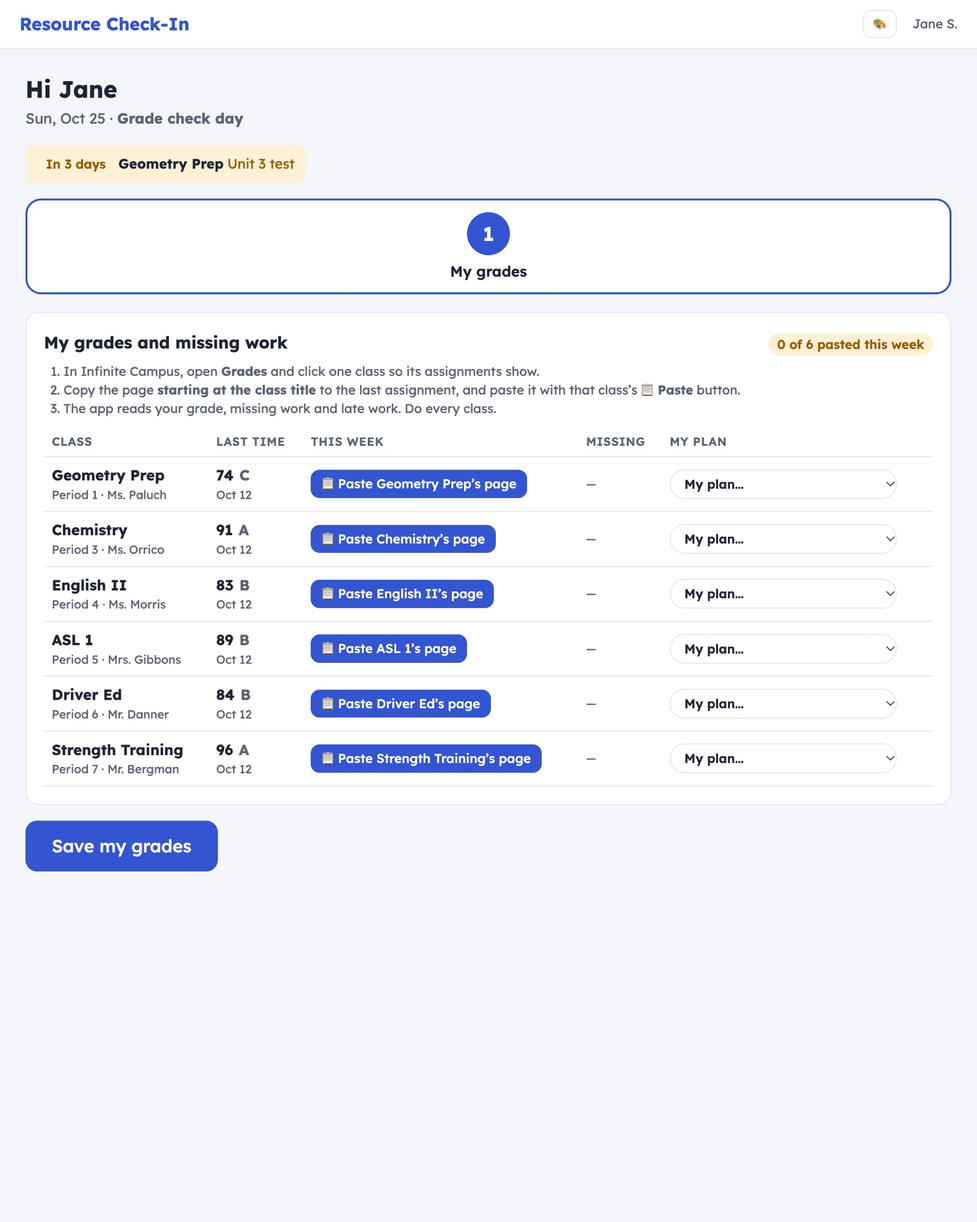
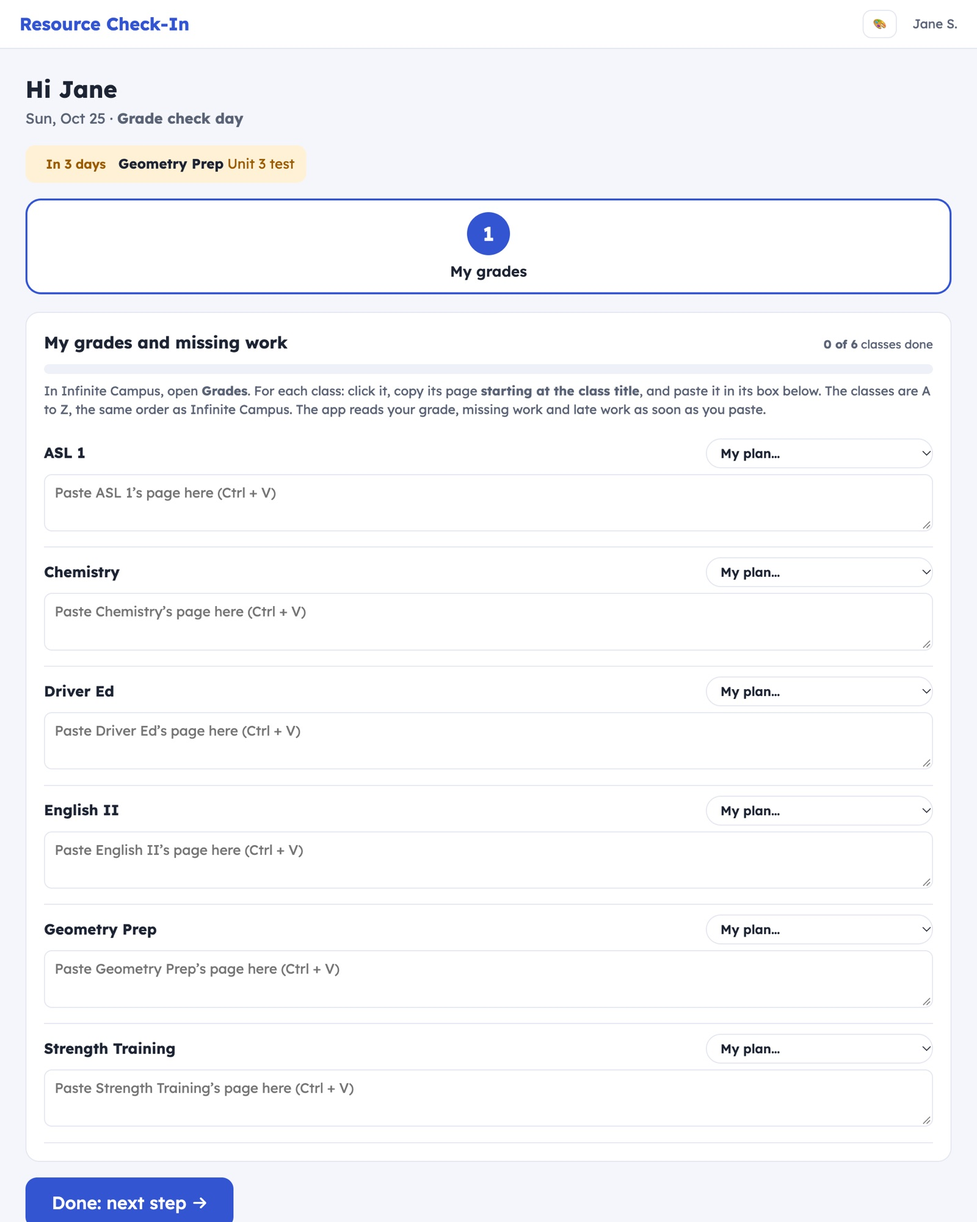
Resource Check-In 2.02: a paste box per class, read on paste (demo, practice page, showcase)

diff --git a/resource/demo.html b/resource/demo.html
@@ -129,6 +129,9 @@ td small, .small { display: block; color: var(--soft); font-size: 12px; }
 .ck.num { background: var(--card); font-size: 18px; } .ck.fn2 { color: var(--brand); } .ck.eq { background: var(--brand); color: var(--onbrand, #fff); border-color: var(--brand); font-size: 20px; }
 .ck:active { transform: scale(.96); } .calch { display: block; text-align: left; padding: 2px 0; }
 .pqrow { display: flex; gap: 12px; align-items: flex-start; padding: 10px 4px; border-bottom: 1px solid var(--line); } .pqrow.off { opacity: .5; }
+.gpbar { height: 10px; background: var(--chip); border-radius: 6px; overflow: hidden; margin: 6px 0 2px; } .gpbar span { display: block; height: 100%; background: var(--up); border-radius: 6px; transition: width .3s; }
+.gprow { padding: 10px 0; border-bottom: 1px solid var(--line); } .gprow.done b.grow { color: var(--up); }
+.gpbox { margin-top: 6px; min-height: 44px; font-size: 14px; } .gpres { font-size: 14px; }
 .pollnames { display: grid; grid-template-columns: repeat(auto-fill, minmax(160px, 1fr)); gap: 14px; margin-top: 12px; }
 .pollcard { border: 2px solid var(--brand); text-align: center; padding: 26px 20px; }
 .pollq { font-size: 26px; font-weight: 700; margin: 10px 0 18px; line-height: 1.25; }
@@ -432,7 +435,7 @@ tr.lowrow td { background: var(--chip); border-bottom: 1px solid var(--line); }
    plan how they'll use resource time, and list upcoming tests. The teacher sees everyone.
    A Google Sheet + Apps Script web app. How to set it up: SETUP.md. */
 
-var VERSION = '2.01';
+var VERSION = '2.02';
 
 // Data tabs and their columns. Dates are stored as text (yyyy-mm-dd).
 var TABS = {
@@ -5405,7 +5408,7 @@ function drawCheckin() {
   if (cur === 'grades') {
     if (GSUB === 1) { h += weeklyCards() + ckSaveBtn('Save my plan for the week', function () { GSUB = 0; STEP = null; }); after = 'week'; }
     else {
-      h += gradesCard(function () { return ''; }) + ckSaveBtn(gradesDone() ? 'Save my grades' : 'Save my grades', weeklyOn() ? function () { GSUB = 1; STEP = { k: 'grades', wasDone: true }; } : null) + (gradesDone() ? nx() : '');
+      h += gradesCard(function () { return ''; }) + ckSaveBtn(pasteOnly() ? 'Done: next step →' : 'Save my grades', weeklyOn() ? function () { GSUB = 1; STEP = { k: 'grades', wasDone: true }; } : null) + (gradesDone() ? nx() : '');
       after = 'grades';
     }
   } else if (cur === 'plan') h += dayPlanCard() + nx();
@@ -5479,24 +5482,67 @@ function weeklyCards() {
 // 2.00: students enter grades only by pasting each class's detailed page (grade, missing and late work come from it)
 function pasteOnly() { return MODE === 'student' && F('pasteOnly'); }
 function pastedWeek(c) { var a = (D.analyses || {})[c.name]; return a && a.date >= B.week ? a.date : ''; }
+// 2.02: one open paste box per class, A to Z like Infinite Campus's Grades page. Each page is read the moment it's pasted, saved in the
+// background, and the cursor jumps to the next empty box; a progress bar fills as they go.
+var GP_AGAIN = {}, GP_LAST = {}, GP_NOTE = {};
+function gpOrder() { return graded().slice().sort(function (a, b) { return a.name.localeCompare(b.name); }); }
+function gpDone(c) { return !!pastedWeek(c) && !GP_AGAIN[c.name]; }
 function gradesCardPaste(sec) {
-  var CP = F('cplan'), COLS = 4 + (CP ? 1 : 0), all = graded(), done = all.filter(pastedWeek).length;
-  var h = '<div class="card"><div class="row"><h2 class="grow">' + sec() + 'My grades and missing work</h2><span class="badge ' + (done === all.length && all.length ? 'up' : 'warn') + '">' + done + ' of ' + all.length + ' pasted this week</span></div>' +
-    '<ol class="hint" style="margin:4px 0 10px;padding-left:20px"><li>In Infinite Campus, open <b>Grades</b> and click one class so its assignments show.</li><li>Copy the page <b>starting at the class title</b> to the last assignment, and paste it with that class’s <b>📋 Paste</b> button.</li><li>The app reads your grade, missing work and late work. Do every class.</li></ol>';
+  var CP = F('cplan'), all = gpOrder(), done = all.filter(gpDone).length, pct = all.length ? Math.round(100 * done / all.length) : 0;
+  var h = '<div class="card" id="gcard"><div class="row"><h2 class="grow">' + sec() + 'My grades and missing work</h2><span class="small"><b>' + done + ' of ' + all.length + '</b> classes done</span></div>' +
+    '<div class="gpbar"><span style="width:' + pct + '%"></span></div>' +
+    '<p class="hint" style="margin:8px 0 10px">In Infinite Campus, open <b>Grades</b>. For each class: click it, copy its page <b>starting at the class title</b>, and paste it in its box below. The classes are A to Z, the same order as Infinite Campus. The app reads your grade, missing work and late work as soon as you paste.</p>';
   if (!all.length) return h + '<div class="empty">No classes yet. Add them under <a href="#" onclick="go(\'schedule\');return false">My schedule</a>.</div></div>';
-  h += '<table><thead><tr><th>Class</th><th>Last time</th><th>This week</th><th>Missing</th>' + (CP ? '<th>My plan</th>' : '') + '</tr></thead><tbody>' + all.map(function (c, i) {
-    var prev = before(D.grades[c.name], B.week), v = CK.grades[c.name], pd = pastedWeek(c), m = CK.missing[c.name] || { n: '', list: '' }, by = ((D.gradeBy || {})[c.name] || {})[B.week];
-    var cell = pd && v !== '' ? '<b>' + esc(v) + '</b><span class="letter">' + letter(Number(v)) + '</span>' + changeBadge(Number(v), prev) + '<small>✓ pasted ' + shortDay(pd) + ' · <a href="#" onclick="anOpen(' + i + ');return false">Paste again</a></small>'
-      : (by && v !== '' ? '<b>' + esc(v) + '</b><span class="letter">' + letter(Number(v)) + '</span><small>✏ Entered by your teacher · <a href="#" onclick="anOpen(' + i + ');return false">Paste to update</a></small>'
-      : '<button class="btn primary small" onclick="anOpen(' + i + ')">📋 Paste ' + esc(c.name) + '’s page</button>');
-    return '<tr><td><b>' + esc(c.name) + '</b><small>' + esc([c.period ? 'Period ' + c.period : '', c.level].filter(String).join(' · ')) + (c.teacher ? (c.period || c.level ? ' · ' : '') + teacherLinks(c) : '') + '</small>' +
-      '<div id="gw' + i + '"' + (gradRisk(c.name, v) ? '' : ' hidden') + '><span class="gradpill">🎓 Needed to graduate</span></div></td>' +
-      '<td>' + (prev ? '<b>' + prev.grade + '</b><span class="letter">' + letter(prev.grade) + '</span><small>' + shortDay(gDay(D, c.name, prev.week)) + '</small>' : '<span class="small">First week</span>') + '</td>' +
-      '<td>' + cell + '</td><td>' + (pd ? (Number(m.n) ? '<b style="color:var(--down)">' + esc(m.n) + '</b>' + (m.list ? '<small>' + esc(m.list) + '</small>' : '') : '0') : '<span class="small">—</span>') + '</td>' +
-      (CP ? '<td>' + cpSelect(i, CK.cplan[c.name]) + '</td>' : '') + '</tr>' +
-      (F('lowWhy') ? '<tr class="lowrow" id="lr' + i + '"' + (isLow(v) ? '' : ' hidden') + '><td colspan="' + COLS + '">' + lowBox(i) + '</td></tr>' : '');
-  }).join('') + '</tbody></table>';
+  h += all.map(function (c) {
+    var i = graded().indexOf(c), ok = gpDone(c), v = CK.grades[c.name], m = CK.missing[c.name] || { n: '', list: '' }, prev = before(D.grades[c.name], B.week);
+    var by = !ok && v !== '' && ((D.gradeBy || {})[c.name] || {})[B.week];
+    var res = ok ? '<span class="gpres">✓ <b>' + esc(v) + '%</b> ' + letter(Number(v)) + ' ' + changeBadge(Number(v), prev) + ' · ' + (Number(m.n) ? '<b style="color:var(--down)">' + esc(m.n) + ' missing</b>' : 'nothing missing') +
+      ' · <a href="#" onclick="gpAgain(' + i + ');return false">Paste again</a>' + (GP_LAST[c.name] ? ' · <a href="#" onclick="anShow(' + i + ');return false">Details</a>' : '') + '</span>' : '';
+    return '<div class="gprow' + (ok ? ' done' : '') + '" id="gp' + i + '"><div class="row" style="align-items:center;gap:8px"><b class="grow">' + esc(c.name) + (gradRisk(c.name, v) ? ' <span class="gradpill">🎓</span>' : '') + '</b>' + res + (CP ? cpSelect(i, CK.cplan[c.name]) : '') + '</div>' +
+      (ok && Number(m.n) && m.list ? '<div class="small" style="margin-top:2px">Missing: ' + esc(m.list) + '</div>' : '') +
+      (!ok ? (GP_NOTE[c.name] ? '<div class="small" style="color:var(--brand);margin-top:4px">' + GP_NOTE[c.name] + '</div>' : '') + (by ? '<div class="small" style="margin-top:4px">✏ Your teacher entered ' + esc(v) + '% this week. Paste the page to update it.</div>' : '') +
+        '<textarea class="gpbox" id="gpt' + i + '" rows="2" placeholder="Paste ' + esc(c.name) + '’s page here (Ctrl + V)" onpaste="gpPaste(' + i + ',this)" oninput="gpType(' + i + ',this)"></textarea><div class="small" id="gpm' + i + '" style="color:var(--down)"></div>' : '') +
+      (ok && F('lowWhy') && isLow(v) ? '<div class="lowrow" id="lr' + i + '">' + lowBox(i) + '<div class="small" id="lsv' + i + '" style="margin-top:4px"></div></div>' : '') + '</div>';
+  }).join('');
   return h + '</div>';
+}
+function gpPaste(i, el) { setTimeout(function () { gpRead(i, el); }, 30); }
+function gpType(i, el) { clearTimeout(window.GPT); window.GPT = setTimeout(function () { if (el.value.length > 200) gpRead(i, el); }, 600); }          // pasted with the right-click menu
+function gpAgain(i) { GP_AGAIN[graded()[i].name] = true; gpRedraw(i); }
+function gpRedraw(focusI) {
+  var card = $('gcard'); if (!card) return drawCheckin();
+  card.outerHTML = gradesCardPaste(function () { return ''; });
+  var t = focusI !== undefined && $('gpt' + focusI) ? $('gpt' + focusI) : document.querySelector('#gcard textarea.gpbox');
+  if (t) { t.focus(); t.scrollIntoView({ behavior: 'smooth', block: 'center' }); }
+}
+function gpRead(i, el) {
+  var text = el.value, c = graded()[i], msg = function (t) { var m = $('gpm' + i); if (m) m.textContent = t; el.value = ''; };
+  if (!text.trim() || el.dataset.busy) return;
+  var p = parseClassGrades(text);
+  if (!p.items.length) return msg('That looks like the summary page (one grade for each class). Click ' + c.name + ' in Infinite Campus so its assignments show, and copy that page starting at the class title.');
+  if (p.grade === null || p.grade === undefined) return msg('We couldn’t find the class grade on that page. Start your copy at the very top, at the class title.');
+  var to = anRoute(p, c), moved = '';
+  if (to && to !== c) { moved = c.name; c = to; }
+  else if (!to || !AN_SURE) { var why = anOdd(p, c); if (why && !confirm('Double-check: is this your ' + c.name + ' page? ' + why + '\n\nOK = yes, it’s ' + c.name + '. Cancel = I’ll paste the right page.')) return msg(''); }
+  el.dataset.busy = '1';
+  var res = analyzeClass(p, { today: B.today, onTime: B.retakeOnTime, below: B.retakeBelow, target: 85 }), cn = c.name, g = Math.round(Number(res.grade) * 100) / 100, ms = res.missing.map(function (x) { return x.name; });
+  GP_LAST[cn] = { res: res, p: p }; delete GP_AGAIN[cn]; delete GP_NOTE[cn];
+  if (moved) GP_NOTE[moved] = 'That was your ' + esc(cn) + ' page, so it’s saved there. Paste ' + esc(moved) + '’s page here.';
+  CK.grades[cn] = String(g); CK.missing[cn] = { n: String(ms.length), list: ms.join(', ') }; CK.an[cn] = res;
+  D.grades[cn] = D.grades[cn] || {}; D.grades[cn][B.week] = g; D.dates = D.dates || {}; D.dates[cn] = D.dates[cn] || {}; D.dates[cn][B.week] = B.today;
+  D.analyses = D.analyses || {}; D.analyses[cn] = { date: B.today, grade: g, missing: [], onTime: res.next.onTime, total: res.next.total, lastTest: res.nextFrom || '' };
+  D.anames = D.anames || {}; D.anames[cn] = p.items.map(function (x) { return x.name; }).slice(0, 80);
+  call('api_saveRetakes', cn, retakeList(res), anSummary(res)).then(function (r) { D.retakes = r; }).catch(oops);          // saves in the background
+  var next = gpOrder().filter(function (x) { return !gpDone(x); })[0];
+  gpRedraw(moved ? i : next ? graded().indexOf(next) : undefined);
+  if (!next && !moved) toast('All classes done ✓');
+}
+// the full analysis of a class pasted this visit (retakes, missing work, late work)
+function anShow(i) {
+  var c = graded()[i], L = GP_LAST[c.name]; if (!L) return;
+  var el = document.createElement('div'); el.className = 'modal'; el.id = 'anModal'; el.onclick = function (e) { if (e.target === el) el.remove(); };
+  el.innerHTML = '<div class="card"><div class="row"><h2 class="grow">🔍 ' + esc(c.name) + '</h2><button class="btn link" onclick="$(\'anModal\').remove()">✕ Close</button></div><div id="anOut">' + anHtml(L.res, L.p) + '</div></div>';
+  document.body.appendChild(el);
 }
 function gradesCard(sec) {
   if (pasteOnly()) return gradesCardPaste(sec);
@@ -5816,11 +5862,22 @@ function lowHelp(cls) {
   dropFor(cls || '').forEach(function (d) { bits.push('📍 Drop-In Center' + (d.campus ? ' (' + esc(d.campus) + (d.subject ? ', ' + esc(d.subject) : '') + ')' : '') + ': ' + esc(d.where)); });
   return bits.length ? '<p class="small" style="margin:2px 0 8px">' + bits.join(' &nbsp;·&nbsp; ') + '</p>' : '';
 }
-function lowSet(i, k, v) { CK.lows[graded()[i].name][k] = v; setDirty(true); }
+function lowSet(i, k, v) { CK.lows[graded()[i].name][k] = v; setDirty(true); lowAuto(i); }
 function lowAct(i, k, el) {
   var c = graded()[i], list = CK.lows[c.name].actions, a = lowActions(c)[k], at = list.indexOf(a);
   if (el.checked && at < 0) list.push(a); if (!el.checked && at >= 0) list.splice(at, 1);
-  el.parentNode.className = el.checked ? 'on' : ''; setDirty(true);
+  el.parentNode.className = el.checked ? 'on' : ''; setDirty(true); lowAuto(i);
+}
+// 2.02: in pasting mode a low grade's reason and plan save by themselves once both are filled in
+var LOW_T = {};
+function lowAuto(i) {
+  if (!pasteOnly()) return;
+  var c = graded()[i]; clearTimeout(LOW_T[c.name]);
+  LOW_T[c.name] = setTimeout(function () {
+    var x = CK.lows[c.name], sv = $('lsv' + i); if (!x.why.trim() || (!x.actions.length && !x.details.trim())) { if (sv) sv.textContent = 'Write why, and pick a plan: it saves by itself.'; return; }
+    var gr = {}, lw = {}; gr[c.name] = CK.grades[c.name]; lw[c.name] = x; if (sv) sv.textContent = 'Saving…';
+    call('api_saveCheckin', { grades: gr, lows: lw }).then(function (d) { D.lows = d.lows; D.grades = d.grades; D.missing = d.missing; setDirty(false); var s2 = $('lsv' + i); if (s2) s2.textContent = '✓ Saved'; }).catch(oops);
+  }, 1200);
 }
 function mIn(i, v) {
   var c = graded()[i]; CK.missing[c.name].n = v; setDirty(true);

diff --git a/resource/practice.html b/resource/practice.html
@@ -129,6 +129,9 @@ td small, .small { display: block; color: var(--soft); font-size: 12px; }
 .ck.num { background: var(--card); font-size: 18px; } .ck.fn2 { color: var(--brand); } .ck.eq { background: var(--brand); color: var(--onbrand, #fff); border-color: var(--brand); font-size: 20px; }
 .ck:active { transform: scale(.96); } .calch { display: block; text-align: left; padding: 2px 0; }
 .pqrow { display: flex; gap: 12px; align-items: flex-start; padding: 10px 4px; border-bottom: 1px solid var(--line); } .pqrow.off { opacity: .5; }
+.gpbar { height: 10px; background: var(--chip); border-radius: 6px; overflow: hidden; margin: 6px 0 2px; } .gpbar span { display: block; height: 100%; background: var(--up); border-radius: 6px; transition: width .3s; }
+.gprow { padding: 10px 0; border-bottom: 1px solid var(--line); } .gprow.done b.grow { color: var(--up); }
+.gpbox { margin-top: 6px; min-height: 44px; font-size: 14px; } .gpres { font-size: 14px; }
 .pollnames { display: grid; grid-template-columns: repeat(auto-fill, minmax(160px, 1fr)); gap: 14px; margin-top: 12px; }
 .pollcard { border: 2px solid var(--brand); text-align: center; padding: 26px 20px; }
 .pollq { font-size: 26px; font-weight: 700; margin: 10px 0 18px; line-height: 1.25; }
@@ -432,7 +435,7 @@ tr.lowrow td { background: var(--chip); border-bottom: 1px solid var(--line); }
    plan how they'll use resource time, and list upcoming tests. The teacher sees everyone.
    A Google Sheet + Apps Script web app. How to set it up: SETUP.md. */
 
-var VERSION = '2.01';
+var VERSION = '2.02';
 
 // Data tabs and their columns. Dates are stored as text (yyyy-mm-dd).
 var TABS = {
@@ -5405,7 +5408,7 @@ function drawCheckin() {
   if (cur === 'grades') {
     if (GSUB === 1) { h += weeklyCards() + ckSaveBtn('Save my plan for the week', function () { GSUB = 0; STEP = null; }); after = 'week'; }
     else {
-      h += gradesCard(function () { return ''; }) + ckSaveBtn(gradesDone() ? 'Save my grades' : 'Save my grades', weeklyOn() ? function () { GSUB = 1; STEP = { k: 'grades', wasDone: true }; } : null) + (gradesDone() ? nx() : '');
+      h += gradesCard(function () { return ''; }) + ckSaveBtn(pasteOnly() ? 'Done: next step →' : 'Save my grades', weeklyOn() ? function () { GSUB = 1; STEP = { k: 'grades', wasDone: true }; } : null) + (gradesDone() ? nx() : '');
       after = 'grades';
     }
   } else if (cur === 'plan') h += dayPlanCard() + nx();
@@ -5479,24 +5482,67 @@ function weeklyCards() {
 // 2.00: students enter grades only by pasting each class's detailed page (grade, missing and late work come from it)
 function pasteOnly() { return MODE === 'student' && F('pasteOnly'); }
 function pastedWeek(c) { var a = (D.analyses || {})[c.name]; return a && a.date >= B.week ? a.date : ''; }
+// 2.02: one open paste box per class, A to Z like Infinite Campus's Grades page. Each page is read the moment it's pasted, saved in the
+// background, and the cursor jumps to the next empty box; a progress bar fills as they go.
+var GP_AGAIN = {}, GP_LAST = {}, GP_NOTE = {};
+function gpOrder() { return graded().slice().sort(function (a, b) { return a.name.localeCompare(b.name); }); }
+function gpDone(c) { return !!pastedWeek(c) && !GP_AGAIN[c.name]; }
 function gradesCardPaste(sec) {
-  var CP = F('cplan'), COLS = 4 + (CP ? 1 : 0), all = graded(), done = all.filter(pastedWeek).length;
-  var h = '<div class="card"><div class="row"><h2 class="grow">' + sec() + 'My grades and missing work</h2><span class="badge ' + (done === all.length && all.length ? 'up' : 'warn') + '">' + done + ' of ' + all.length + ' pasted this week</span></div>' +
-    '<ol class="hint" style="margin:4px 0 10px;padding-left:20px"><li>In Infinite Campus, open <b>Grades</b> and click one class so its assignments show.</li><li>Copy the page <b>starting at the class title</b> to the last assignment, and paste it with that class’s <b>📋 Paste</b> button.</li><li>The app reads your grade, missing work and late work. Do every class.</li></ol>';
+  var CP = F('cplan'), all = gpOrder(), done = all.filter(gpDone).length, pct = all.length ? Math.round(100 * done / all.length) : 0;
+  var h = '<div class="card" id="gcard"><div class="row"><h2 class="grow">' + sec() + 'My grades and missing work</h2><span class="small"><b>' + done + ' of ' + all.length + '</b> classes done</span></div>' +
+    '<div class="gpbar"><span style="width:' + pct + '%"></span></div>' +
+    '<p class="hint" style="margin:8px 0 10px">In Infinite Campus, open <b>Grades</b>. For each class: click it, copy its page <b>starting at the class title</b>, and paste it in its box below. The classes are A to Z, the same order as Infinite Campus. The app reads your grade, missing work and late work as soon as you paste.</p>';
   if (!all.length) return h + '<div class="empty">No classes yet. Add them under <a href="#" onclick="go(\'schedule\');return false">My schedule</a>.</div></div>';
-  h += '<table><thead><tr><th>Class</th><th>Last time</th><th>This week</th><th>Missing</th>' + (CP ? '<th>My plan</th>' : '') + '</tr></thead><tbody>' + all.map(function (c, i) {
-    var prev = before(D.grades[c.name], B.week), v = CK.grades[c.name], pd = pastedWeek(c), m = CK.missing[c.name] || { n: '', list: '' }, by = ((D.gradeBy || {})[c.name] || {})[B.week];
-    var cell = pd && v !== '' ? '<b>' + esc(v) + '</b><span class="letter">' + letter(Number(v)) + '</span>' + changeBadge(Number(v), prev) + '<small>✓ pasted ' + shortDay(pd) + ' · <a href="#" onclick="anOpen(' + i + ');return false">Paste again</a></small>'
-      : (by && v !== '' ? '<b>' + esc(v) + '</b><span class="letter">' + letter(Number(v)) + '</span><small>✏ Entered by your teacher · <a href="#" onclick="anOpen(' + i + ');return false">Paste to update</a></small>'
-      : '<button class="btn primary small" onclick="anOpen(' + i + ')">📋 Paste ' + esc(c.name) + '’s page</button>');
-    return '<tr><td><b>' + esc(c.name) + '</b><small>' + esc([c.period ? 'Period ' + c.period : '', c.level].filter(String).join(' · ')) + (c.teacher ? (c.period || c.level ? ' · ' : '') + teacherLinks(c) : '') + '</small>' +
-      '<div id="gw' + i + '"' + (gradRisk(c.name, v) ? '' : ' hidden') + '><span class="gradpill">🎓 Needed to graduate</span></div></td>' +
-      '<td>' + (prev ? '<b>' + prev.grade + '</b><span class="letter">' + letter(prev.grade) + '</span><small>' + shortDay(gDay(D, c.name, prev.week)) + '</small>' : '<span class="small">First week</span>') + '</td>' +
-      '<td>' + cell + '</td><td>' + (pd ? (Number(m.n) ? '<b style="color:var(--down)">' + esc(m.n) + '</b>' + (m.list ? '<small>' + esc(m.list) + '</small>' : '') : '0') : '<span class="small">—</span>') + '</td>' +
-      (CP ? '<td>' + cpSelect(i, CK.cplan[c.name]) + '</td>' : '') + '</tr>' +
-      (F('lowWhy') ? '<tr class="lowrow" id="lr' + i + '"' + (isLow(v) ? '' : ' hidden') + '><td colspan="' + COLS + '">' + lowBox(i) + '</td></tr>' : '');
-  }).join('') + '</tbody></table>';
+  h += all.map(function (c) {
+    var i = graded().indexOf(c), ok = gpDone(c), v = CK.grades[c.name], m = CK.missing[c.name] || { n: '', list: '' }, prev = before(D.grades[c.name], B.week);
+    var by = !ok && v !== '' && ((D.gradeBy || {})[c.name] || {})[B.week];
+    var res = ok ? '<span class="gpres">✓ <b>' + esc(v) + '%</b> ' + letter(Number(v)) + ' ' + changeBadge(Number(v), prev) + ' · ' + (Number(m.n) ? '<b style="color:var(--down)">' + esc(m.n) + ' missing</b>' : 'nothing missing') +
+      ' · <a href="#" onclick="gpAgain(' + i + ');return false">Paste again</a>' + (GP_LAST[c.name] ? ' · <a href="#" onclick="anShow(' + i + ');return false">Details</a>' : '') + '</span>' : '';
+    return '<div class="gprow' + (ok ? ' done' : '') + '" id="gp' + i + '"><div class="row" style="align-items:center;gap:8px"><b class="grow">' + esc(c.name) + (gradRisk(c.name, v) ? ' <span class="gradpill">🎓</span>' : '') + '</b>' + res + (CP ? cpSelect(i, CK.cplan[c.name]) : '') + '</div>' +
+      (ok && Number(m.n) && m.list ? '<div class="small" style="margin-top:2px">Missing: ' + esc(m.list) + '</div>' : '') +
+      (!ok ? (GP_NOTE[c.name] ? '<div class="small" style="color:var(--brand);margin-top:4px">' + GP_NOTE[c.name] + '</div>' : '') + (by ? '<div class="small" style="margin-top:4px">✏ Your teacher entered ' + esc(v) + '% this week. Paste the page to update it.</div>' : '') +
+        '<textarea class="gpbox" id="gpt' + i + '" rows="2" placeholder="Paste ' + esc(c.name) + '’s page here (Ctrl + V)" onpaste="gpPaste(' + i + ',this)" oninput="gpType(' + i + ',this)"></textarea><div class="small" id="gpm' + i + '" style="color:var(--down)"></div>' : '') +
+      (ok && F('lowWhy') && isLow(v) ? '<div class="lowrow" id="lr' + i + '">' + lowBox(i) + '<div class="small" id="lsv' + i + '" style="margin-top:4px"></div></div>' : '') + '</div>';
+  }).join('');
   return h + '</div>';
+}
+function gpPaste(i, el) { setTimeout(function () { gpRead(i, el); }, 30); }
+function gpType(i, el) { clearTimeout(window.GPT); window.GPT = setTimeout(function () { if (el.value.length > 200) gpRead(i, el); }, 600); }          // pasted with the right-click menu
+function gpAgain(i) { GP_AGAIN[graded()[i].name] = true; gpRedraw(i); }
+function gpRedraw(focusI) {
+  var card = $('gcard'); if (!card) return drawCheckin();
+  card.outerHTML = gradesCardPaste(function () { return ''; });
+  var t = focusI !== undefined && $('gpt' + focusI) ? $('gpt' + focusI) : document.querySelector('#gcard textarea.gpbox');
+  if (t) { t.focus(); t.scrollIntoView({ behavior: 'smooth', block: 'center' }); }
+}
+function gpRead(i, el) {
+  var text = el.value, c = graded()[i], msg = function (t) { var m = $('gpm' + i); if (m) m.textContent = t; el.value = ''; };
+  if (!text.trim() || el.dataset.busy) return;
+  var p = parseClassGrades(text);
+  if (!p.items.length) return msg('That looks like the summary page (one grade for each class). Click ' + c.name + ' in Infinite Campus so its assignments show, and copy that page starting at the class title.');
+  if (p.grade === null || p.grade === undefined) return msg('We couldn’t find the class grade on that page. Start your copy at the very top, at the class title.');
+  var to = anRoute(p, c), moved = '';
+  if (to && to !== c) { moved = c.name; c = to; }
+  else if (!to || !AN_SURE) { var why = anOdd(p, c); if (why && !confirm('Double-check: is this your ' + c.name + ' page? ' + why + '\n\nOK = yes, it’s ' + c.name + '. Cancel = I’ll paste the right page.')) return msg(''); }
+  el.dataset.busy = '1';
+  var res = analyzeClass(p, { today: B.today, onTime: B.retakeOnTime, below: B.retakeBelow, target: 85 }), cn = c.name, g = Math.round(Number(res.grade) * 100) / 100, ms = res.missing.map(function (x) { return x.name; });
+  GP_LAST[cn] = { res: res, p: p }; delete GP_AGAIN[cn]; delete GP_NOTE[cn];
+  if (moved) GP_NOTE[moved] = 'That was your ' + esc(cn) + ' page, so it’s saved there. Paste ' + esc(moved) + '’s page here.';
+  CK.grades[cn] = String(g); CK.missing[cn] = { n: String(ms.length), list: ms.join(', ') }; CK.an[cn] = res;
+  D.grades[cn] = D.grades[cn] || {}; D.grades[cn][B.week] = g; D.dates = D.dates || {}; D.dates[cn] = D.dates[cn] || {}; D.dates[cn][B.week] = B.today;
+  D.analyses = D.analyses || {}; D.analyses[cn] = { date: B.today, grade: g, missing: [], onTime: res.next.onTime, total: res.next.total, lastTest: res.nextFrom || '' };
+  D.anames = D.anames || {}; D.anames[cn] = p.items.map(function (x) { return x.name; }).slice(0, 80);
+  call('api_saveRetakes', cn, retakeList(res), anSummary(res)).then(function (r) { D.retakes = r; }).catch(oops);          // saves in the background
+  var next = gpOrder().filter(function (x) { return !gpDone(x); })[0];
+  gpRedraw(moved ? i : next ? graded().indexOf(next) : undefined);
+  if (!next && !moved) toast('All classes done ✓');
+}
+// the full analysis of a class pasted this visit (retakes, missing work, late work)
+function anShow(i) {
+  var c = graded()[i], L = GP_LAST[c.name]; if (!L) return;
+  var el = document.createElement('div'); el.className = 'modal'; el.id = 'anModal'; el.onclick = function (e) { if (e.target === el) el.remove(); };
+  el.innerHTML = '<div class="card"><div class="row"><h2 class="grow">🔍 ' + esc(c.name) + '</h2><button class="btn link" onclick="$(\'anModal\').remove()">✕ Close</button></div><div id="anOut">' + anHtml(L.res, L.p) + '</div></div>';
+  document.body.appendChild(el);
 }
 function gradesCard(sec) {
   if (pasteOnly()) return gradesCardPaste(sec);
@@ -5816,11 +5862,22 @@ function lowHelp(cls) {
   dropFor(cls || '').forEach(function (d) { bits.push('📍 Drop-In Center' + (d.campus ? ' (' + esc(d.campus) + (d.subject ? ', ' + esc(d.subject) : '') + ')' : '') + ': ' + esc(d.where)); });
   return bits.length ? '<p class="small" style="margin:2px 0 8px">' + bits.join(' &nbsp;·&nbsp; ') + '</p>' : '';
 }
-function lowSet(i, k, v) { CK.lows[graded()[i].name][k] = v; setDirty(true); }
+function lowSet(i, k, v) { CK.lows[graded()[i].name][k] = v; setDirty(true); lowAuto(i); }
 function lowAct(i, k, el) {
   var c = graded()[i], list = CK.lows[c.name].actions, a = lowActions(c)[k], at = list.indexOf(a);
   if (el.checked && at < 0) list.push(a); if (!el.checked && at >= 0) list.splice(at, 1);
-  el.parentNode.className = el.checked ? 'on' : ''; setDirty(true);
+  el.parentNode.className = el.checked ? 'on' : ''; setDirty(true); lowAuto(i);
+}
+// 2.02: in pasting mode a low grade's reason and plan save by themselves once both are filled in
+var LOW_T = {};
+function lowAuto(i) {
+  if (!pasteOnly()) return;
+  var c = graded()[i]; clearTimeout(LOW_T[c.name]);
+  LOW_T[c.name] = setTimeout(function () {
+    var x = CK.lows[c.name], sv = $('lsv' + i); if (!x.why.trim() || (!x.actions.length && !x.details.trim())) { if (sv) sv.textContent = 'Write why, and pick a plan: it saves by itself.'; return; }
+    var gr = {}, lw = {}; gr[c.name] = CK.grades[c.name]; lw[c.name] = x; if (sv) sv.textContent = 'Saving…';
+    call('api_saveCheckin', { grades: gr, lows: lw }).then(function (d) { D.lows = d.lows; D.grades = d.grades; D.missing = d.missing; setDirty(false); var s2 = $('lsv' + i); if (s2) s2.textContent = '✓ Saved'; }).catch(oops);
+  }, 1200);
 }
 function mIn(i, v) {
   var c = graded()[i]; CK.missing[c.name].n = v; setDirty(true);
